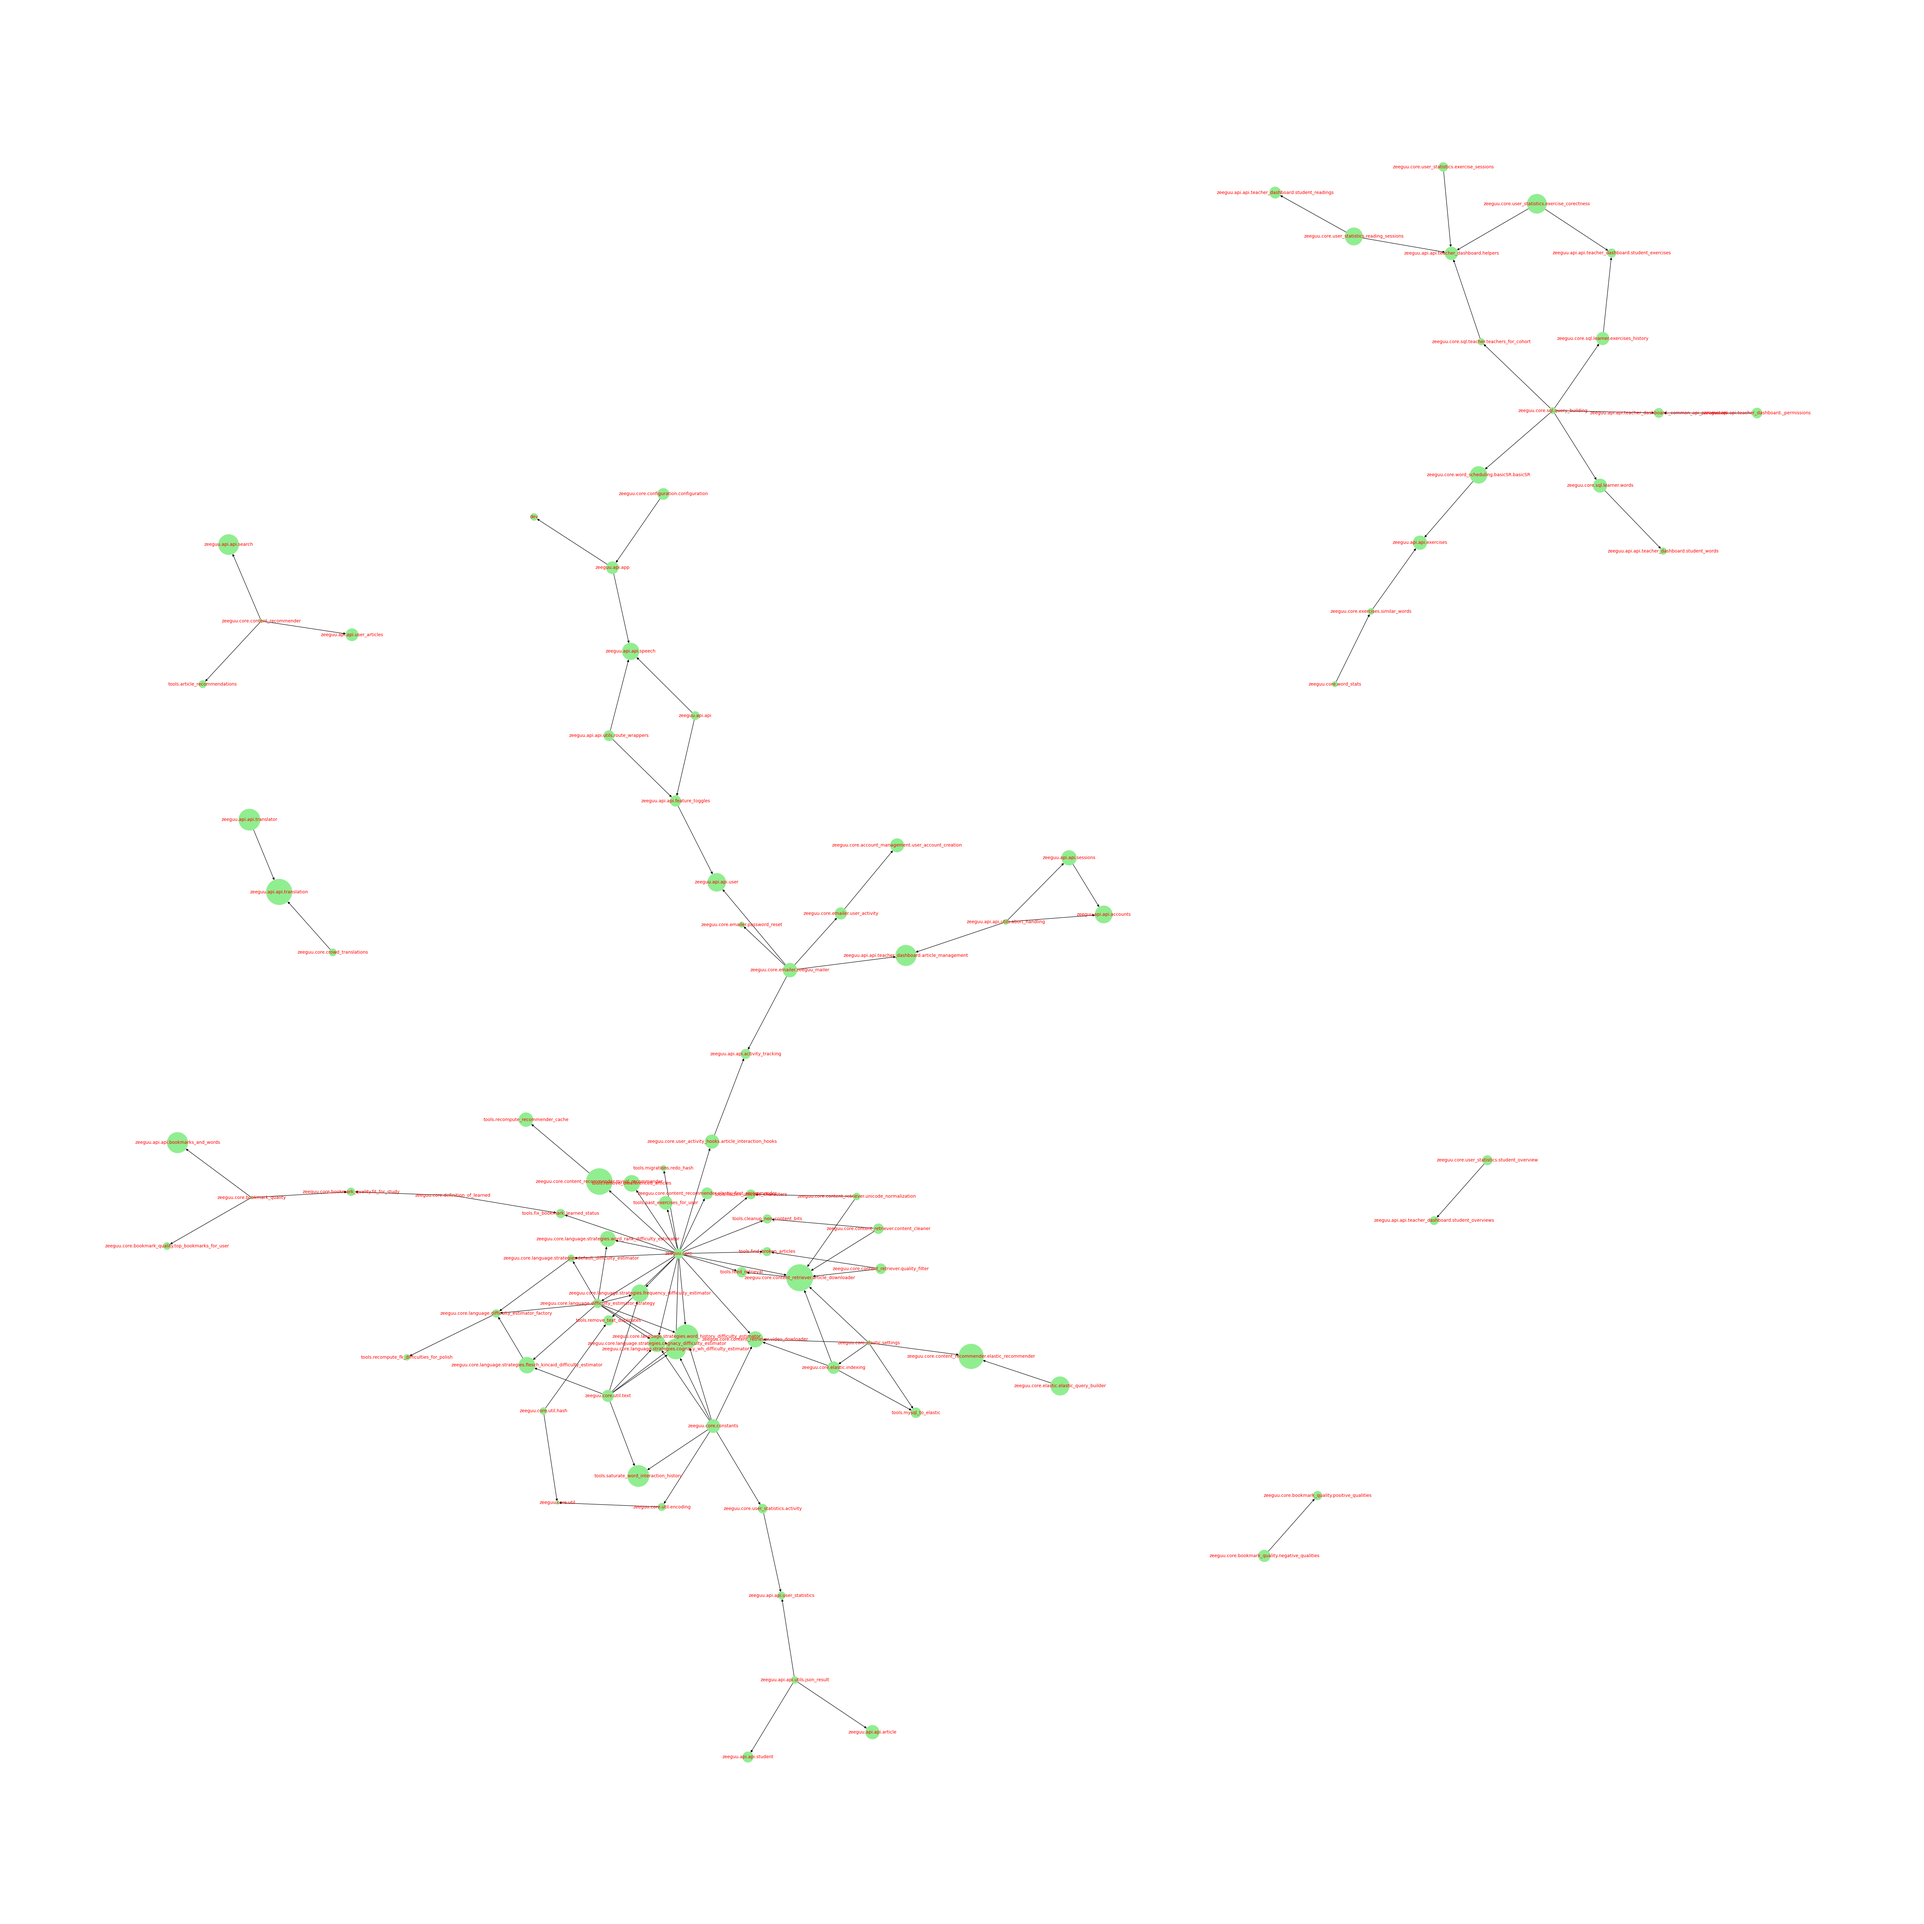
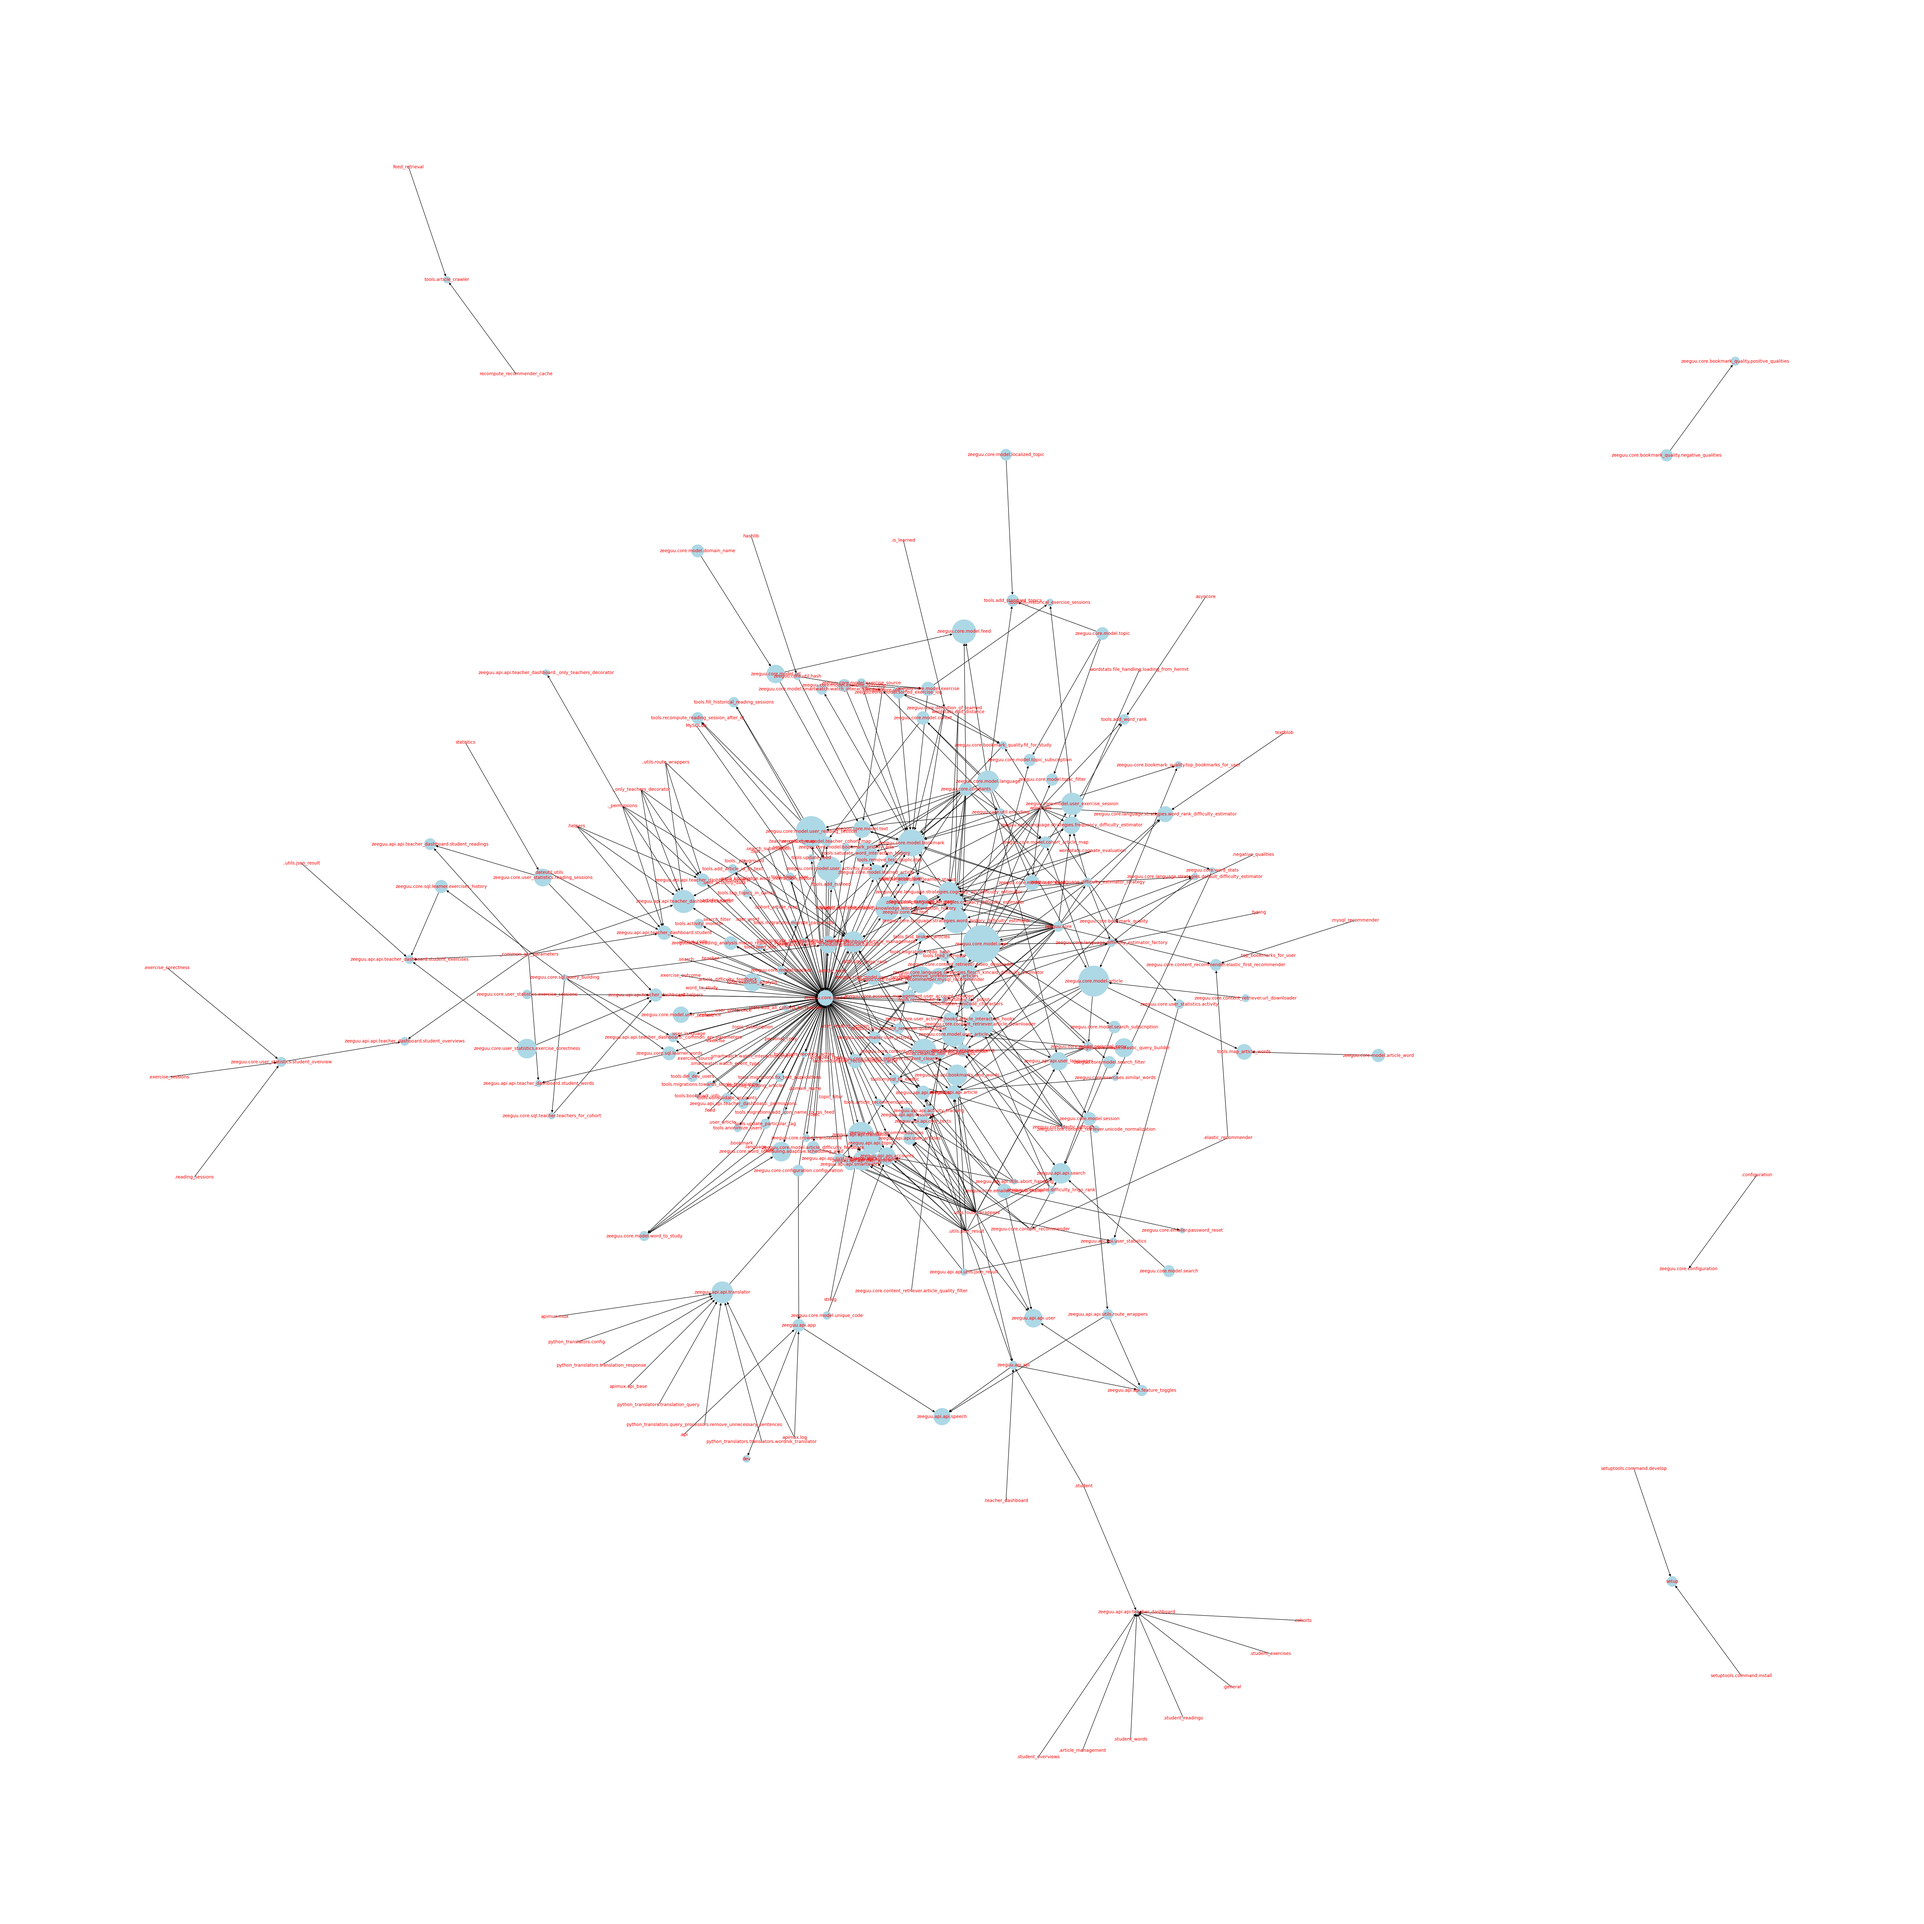
Added node color orang

diff --git a/main.py b/main.py
@@ -155,7 +155,7 @@ def dependencies_digraph(list_of_dependencies, to_exclude):
             source_module = dependency.name
 
             if source_module not in G.nodes:
-                G.add_node(source_module, size=dependency.lines_of_code * 10)
+                G.add_node(source_module, size=dependency.lines_of_code * 10, color="lightblue")
 
     for dependency in list_of_dependencies:
         if not [ele for ele in to_exclude if (ele in dependency.name)]:
@@ -164,7 +164,7 @@ def dependencies_digraph(list_of_dependencies, to_exclude):
             for depends_on in dependency.depends_on:
                 if not [ele for ele in to_exclude if (ele in depends_on)]:
                     if depends_on not in G.nodes:
-                        G.add_node(depends_on, size=10)
+                        G.add_node(depends_on, size=10, color="lightblue")
 
                     if depends_on and depends_on != source_module and depends_on in G.nodes:
                         G.add_edge(depends_on, source_module, color='black')
@@ -183,12 +183,14 @@ def draw_graph_with_labels(G, figsize=(10, 10), prog='twopi', name="test4.png"):
     plt.figure(figsize=figsize)
 
     sizes = nx.get_node_attributes(G, "size")
+
+    colors = nx.get_node_attributes(G, "color")
     print(len(G.nodes()))
     print(len(sizes))
     pos = graphviz_layout(G, prog=prog)
 
     nx.draw(G, pos=pos,
-            node_color='lightgreen',
+            node_color=list(colors.values()),
             node_size=list(sizes.values()),
             font_color="red",
             font_size="10",
@@ -202,17 +204,17 @@ print(dependencies_to_ignore)
 print(imports(file_path('zeeguu/core/model/user.py'), dependencies_to_ignore))
 print(len(files))
 processed_files = get_imports_for_files(files, dependencies_to_ignore)
-DG = dependencies_digraph(processed_files, [".."])
+DG = dependencies_digraph(processed_files, [])
 DGWE = remove_singleEdges(DG)
 
-# draw_graph_with_labels(DGWE,  (60, 60), 'neato', "test1.png")
+draw_graph_with_labels(DGWE,  (60, 60), 'neato', "test1.png")
 
 new_list = get_imports_for_files_no_smaller_files(files, dependencies_to_ignore)
 DGW = dependencies_digraph(new_list, [])
 DGWEe = remove_singleEdges(DGW)
 
 
-# draw_graph_with_labels(DGW,  (60, 60), 'neato', "test2.png")
+draw_graph_with_labels(DGWEe,  (60, 60), 'neato', "test2.png")
 
 def has_depth(module_name, currentDepth):
     if "." in module_name:
@@ -273,7 +275,7 @@ def get_level_module_no_skip(module_name, depth):
 
 def calculate_how_many_connections(G, currentItem):
     sizes = nx.get_node_attributes(G, "size")
-    mentions = 1
+    mentions = 100
     for key, val in sizes.items():
         if currentItem in key and currentItem != key:
             mentions = mentions + 100
@@ -283,10 +285,9 @@ def calculate_how_many_connections(G, currentItem):
 
 def calculate_total_amount_of_code(G, currentItem):
     sizes = nx.get_node_attributes(G, "size")
-    totalCode = 1
+    totalCode = 100
     for key, val in sizes.items():
         if key == currentItem:
-            print(key, currentItem)
             totalCode = totalCode + val
 
     return totalCode
@@ -299,10 +300,11 @@ def abstraceted_to_top_level(G):
     while len(newcopy) > 0:
         for item in newcopy:
             if has_depth(item, x):
-                print(item, x)
-                print(get_level_module(item, x))
                 if get_level_module(item, x) not in aG.nodes and get_level_module(item, x) != "":
-                    aG.add_node(get_level_module(item, x), size=calculate_total_amount_of_code(G,get_level_module_no_skip(item, x)))
+                    if x == 0:
+                        aG.add_node(get_level_module(item, x), size=calculate_total_amount_of_code(G,get_level_module_no_skip(item, x)), color="orange")
+                    else:
+                        aG.add_node(get_level_module(item, x), size=calculate_total_amount_of_code(G,get_level_module_no_skip(item, x)), color="lightblue")
                     if x > 0 and get_level_module(item, x - 1) != "":
                         source = get_level_module(item, x - 1)
                         destination = get_level_module(item, x)
